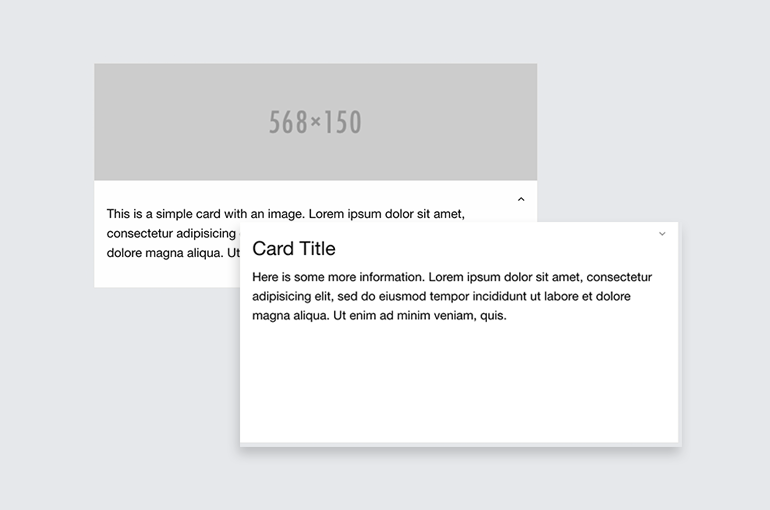
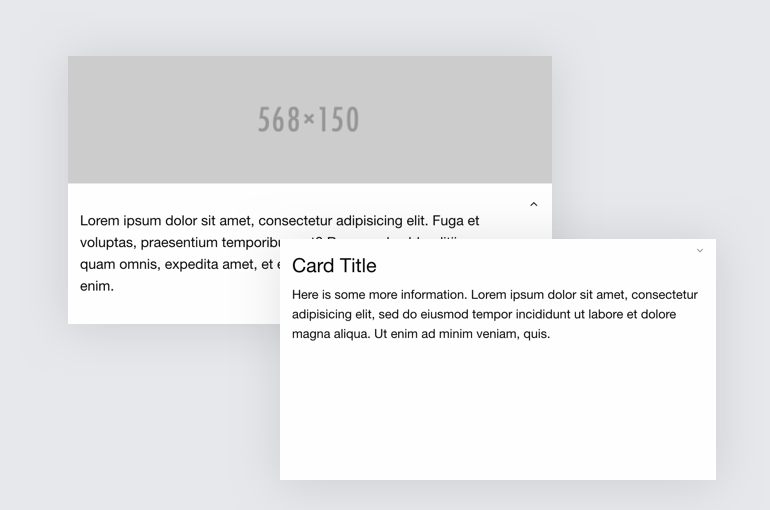
updates bb image and css

Changed region(s): [[0.0935, 0.4118, 0.9039, 0.9118], [0.0623, 0.0882, 0.7169, 0.3824], [0.3117, 0.2059, 0.4675, 0.2647]]

diff --git a/src/building-blocks/card-reveal/card-reveal.html b/src/building-blocks/card-reveal/card-reveal.html
@@ -1,70 +1,14 @@
-<div class="row">
-  <div class="medium-6 column">
-    <div class="card card-reveal-wrapper">
-      <img src="http://placehold.it/568x150">
-      <div class="card-section">
-        <i class="fa fa-angle-up open-button">
-          <span class="show-for-sr">
-            More
-          </span>
-        </i>
-        <p>
-          This is a simple card with an image. Lorem ipsum dolor sit amet,
-          consectetur adipisicing elit, sed do eiusmod tempor incididunt
-          ut labore et dolore magna aliqua. Ut enim ad minim veniam, quis.
-        </p>
-        <div class="card-reveal">
-          <span class="card-reveal__title">
-            <h4>
-              Card Title
-            </h4>
-            <i class="fa fa-angle-down close-button">
-              <span class="show-for-sr">
-                Close
-              </span>
-            </i>
-          </span>
-          <p>
-            Here is some more information. Lorem ipsum dolor sit amet,
-            consectetur adipisicing elit, sed do eiusmod tempor incididunt
-            ut labore et dolore magna aliqua. Ut enim ad minim veniam, quis.
-          </p>
-        </div> <!-- /.card-reveal -->
-      </div> <!-- /.card-section -->
-    </div> <!-- /.card -->
-  </div> <!-- /.column -->
-  <div class="medium-6 column">
-    <div class="card card-reveal-wrapper">
-      <img src="http://placehold.it/568x150">
-      <div class="card-section">
-        <i class="fa fa-angle-up open-button">
-          <span class="show-for-sr">
-            More
-          </span>
-        </i>
-        <p>
-          This is a simple card with an image. Lorem ipsum dolor sit amet,
-          consectetur adipisicing elit, sed do eiusmod tempor incididunt
-          ut labore et dolore magna aliqua. Ut enim ad minim veniam, quis.
-        </p>
-        <div class="card-reveal">
-          <span class="card-reveal__title">
-            <h4>
-              Card Title
-            </h4>
-            <i class="fa fa-angle-down close-button">
-              <span class="show-for-sr">
-                Close
-              </span>
-            </i>
-          </span>
-          <p>
-            Here is some more information. Lorem ipsum dolor sit amet,
-            consectetur adipisicing elit, sed do eiusmod tempor incididunt
-            ut labore et dolore magna aliqua. Ut enim ad minim veniam, quis.
-          </p>
-        </div> <!-- /.card-reveal -->
-      </div> <!-- /.card-section -->
-    </div> <!-- /.card -->
-  </div> <!-- /.column -->
-</div> <!-- /. row -->
+<div class="card card-reveal-wrapper">
+  <img src="http://placehold.it/568x150">
+  <div class="card-section">
+    <i class="fa fa-angle-up open-button"><span class="show-for-sr">More</span></i>
+    <p>Lorem ipsum dolor sit amet, consectetur adipisicing elit. Fuga et voluptas, praesentium temporibus est? Recusandae blanditiis eaque ea quam omnis, expedita amet, et eius ipsum quod ipsa, veritatis doloribus enim.</p>
+    <div class="card-reveal">
+      <span class="card-reveal-title">
+        <h4>Card Title</h4>
+        <i class="fa fa-angle-down close-button"><span class="show-for-sr">Close</span></i>
+      </span>
+      <p>Here is some more information. Lorem ipsum dolor sit amet, consectetur adipisicing elit, sed do eiusmod tempor incididunt ut labore et dolore magna aliqua. Ut enim ad minim veniam, quis.</p>
+    </div> <!-- /.card-reveal -->
+  </div> <!-- /.card-section -->
+</div> <!-- /.card -->

diff --git a/src/building-blocks/card-reveal/layout.html b/src/building-blocks/card-reveal/layout.html
@@ -1,1 +1,34 @@
-{{>card-reveal}}
+<div class="row medium-unstack">
+  <div class="medium-6 columns">
+    <div class="card card-reveal-wrapper">
+      <img src="http://placehold.it/568x150">
+      <div class="card-section">
+        <i class="fa fa-angle-up open-button"><span class="show-for-sr">More</span></i>
+        <p>Lorem ipsum dolor sit amet, consectetur adipisicing elit. Fuga et voluptas, praesentium temporibus est? Recusandae blanditiis eaque ea quam omnis, expedita amet, et eius ipsum quod ipsa, veritatis doloribus enim.</p>
+        <div class="card-reveal">
+          <span class="card-reveal-title">
+            <h4>Card Title</h4>
+            <i class="fa fa-angle-down close-button"><span class="show-for-sr">Close</span></i>
+          </span>
+          <p>Here is some more information. Lorem ipsum dolor sit amet, consectetur adipisicing elit, sed do eiusmod tempor incididunt ut labore et dolore magna aliqua. Ut enim ad minim veniam, quis.</p>
+        </div> <!-- /.card-reveal -->
+      </div> <!-- /.card-section -->
+    </div> <!-- /.card -->
+  </div> <!-- /.column -->
+  <div class="medium-6 column">
+    <div class="card card-reveal-wrapper">
+      <img src="http://placehold.it/568x150">
+      <div class="card-section">
+        <i class="fa fa-angle-up open-button"><span class="show-for-sr">More</span></i>
+        <p>Lorem ipsum dolor sit amet, consectetur adipisicing elit. Fuga et voluptas, praesentium temporibus est? Recusandae blanditiis eaque ea quam omnis, expedita amet, et eius ipsum quod ipsa, veritatis doloribus enim.</p>
+        <div class="card-reveal">
+          <span class="card-reveal-title">
+            <h4>Card Title</h4>
+            <i class="fa fa-angle-down close-button"><span class="show-for-sr">Close</span></i>
+          </span>
+          <p>Here is some more information. Lorem ipsum dolor sit amet, consectetur adipisicing elit, sed do eiusmod tempor incididunt ut labore et dolore magna aliqua. Ut enim ad minim veniam, quis.</p>
+        </div> <!-- /.card-reveal -->
+      </div> <!-- /.card-section -->
+    </div> <!-- /.card -->
+  </div>
+</div> <!-- /. row -->

diff --git a/src/building-blocks/card-reveal/card-reveal.scss b/src/building-blocks/card-reveal/card-reveal.scss
@@ -1,18 +1,20 @@
+
+
 .card-reveal-wrapper {
   position: relative;
-	
+
   .open-button,
   .close-button {
     cursor: pointer;
     float: right;
-    font-size: 14px;
-    padding: 0 0 0 .5rem;
+    font-size: rem-calc(14);
+    padding: 0 0 0 0.5rem;
     text-align: right;
     width: 100%;
   }
-	
+
   .card-reveal {
-    background: white;
+    background: $white;
     bottom: 0;
     display: block;
     left: 0;
@@ -21,7 +23,7 @@
     position: absolute;
     right: 0;
     top: 100%;
-    transition: all 0.6s ease;
+    transition: top 0.6s ease;
   }
 
   .card-reveal.open {
